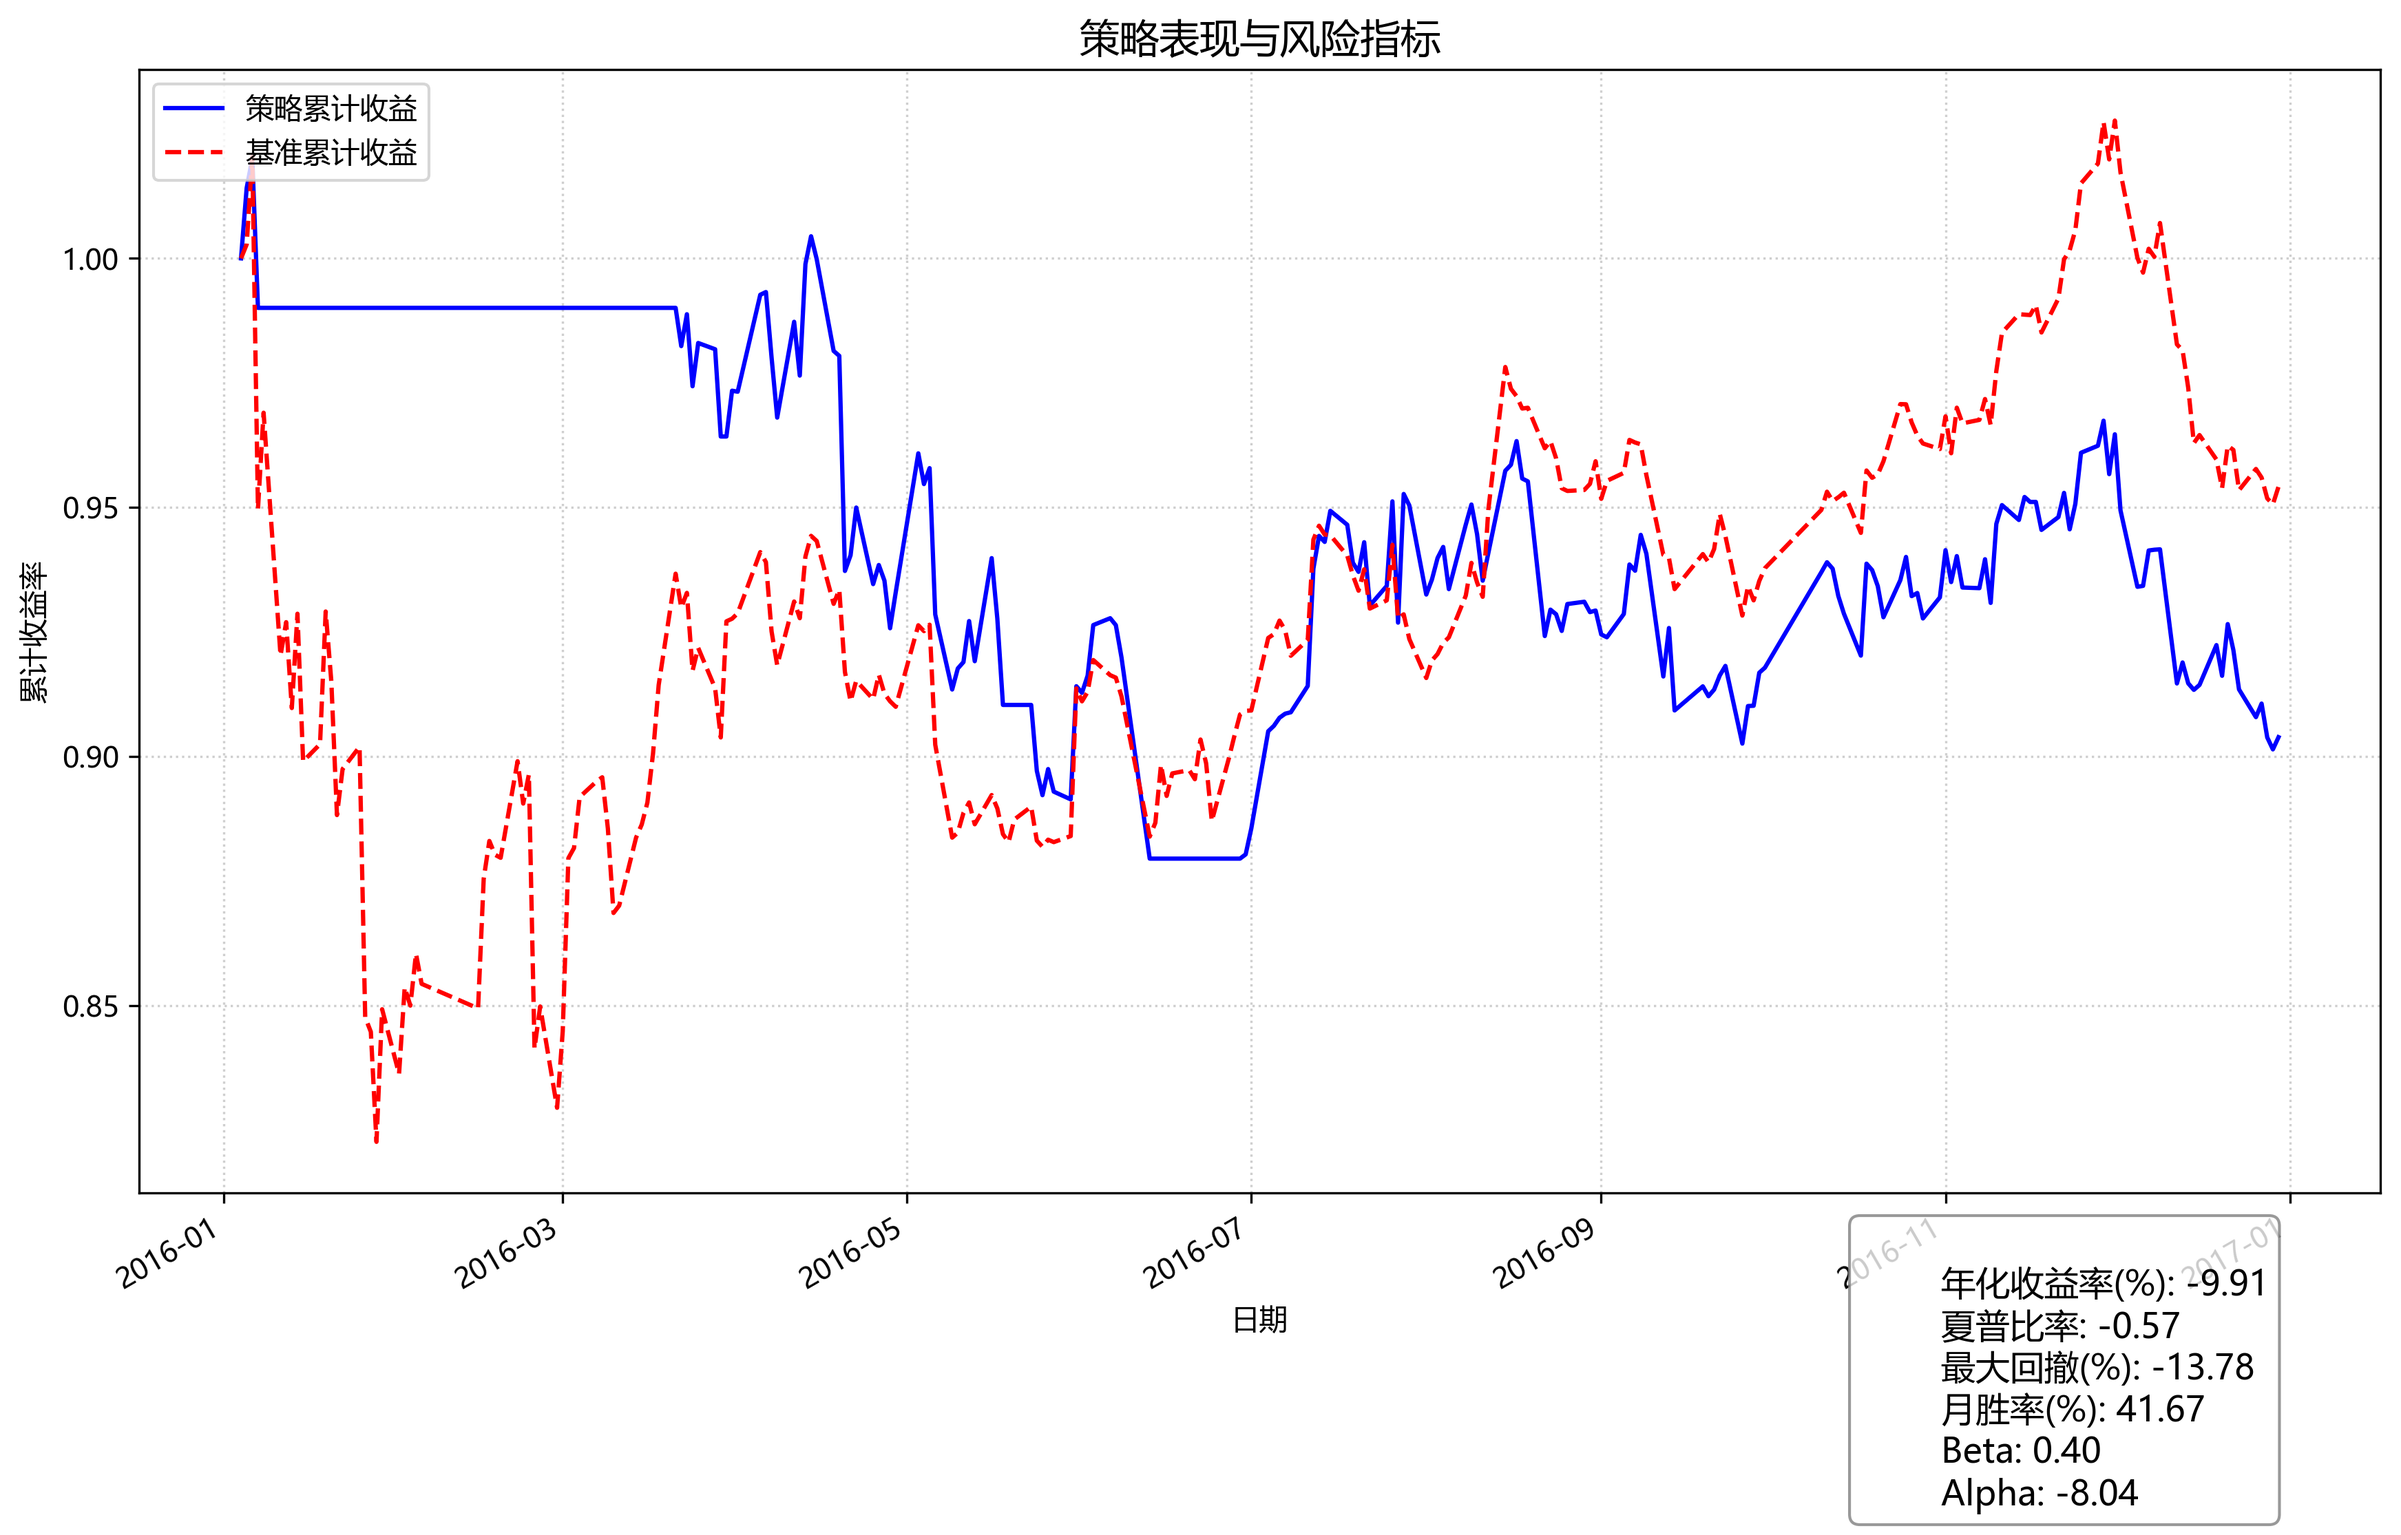
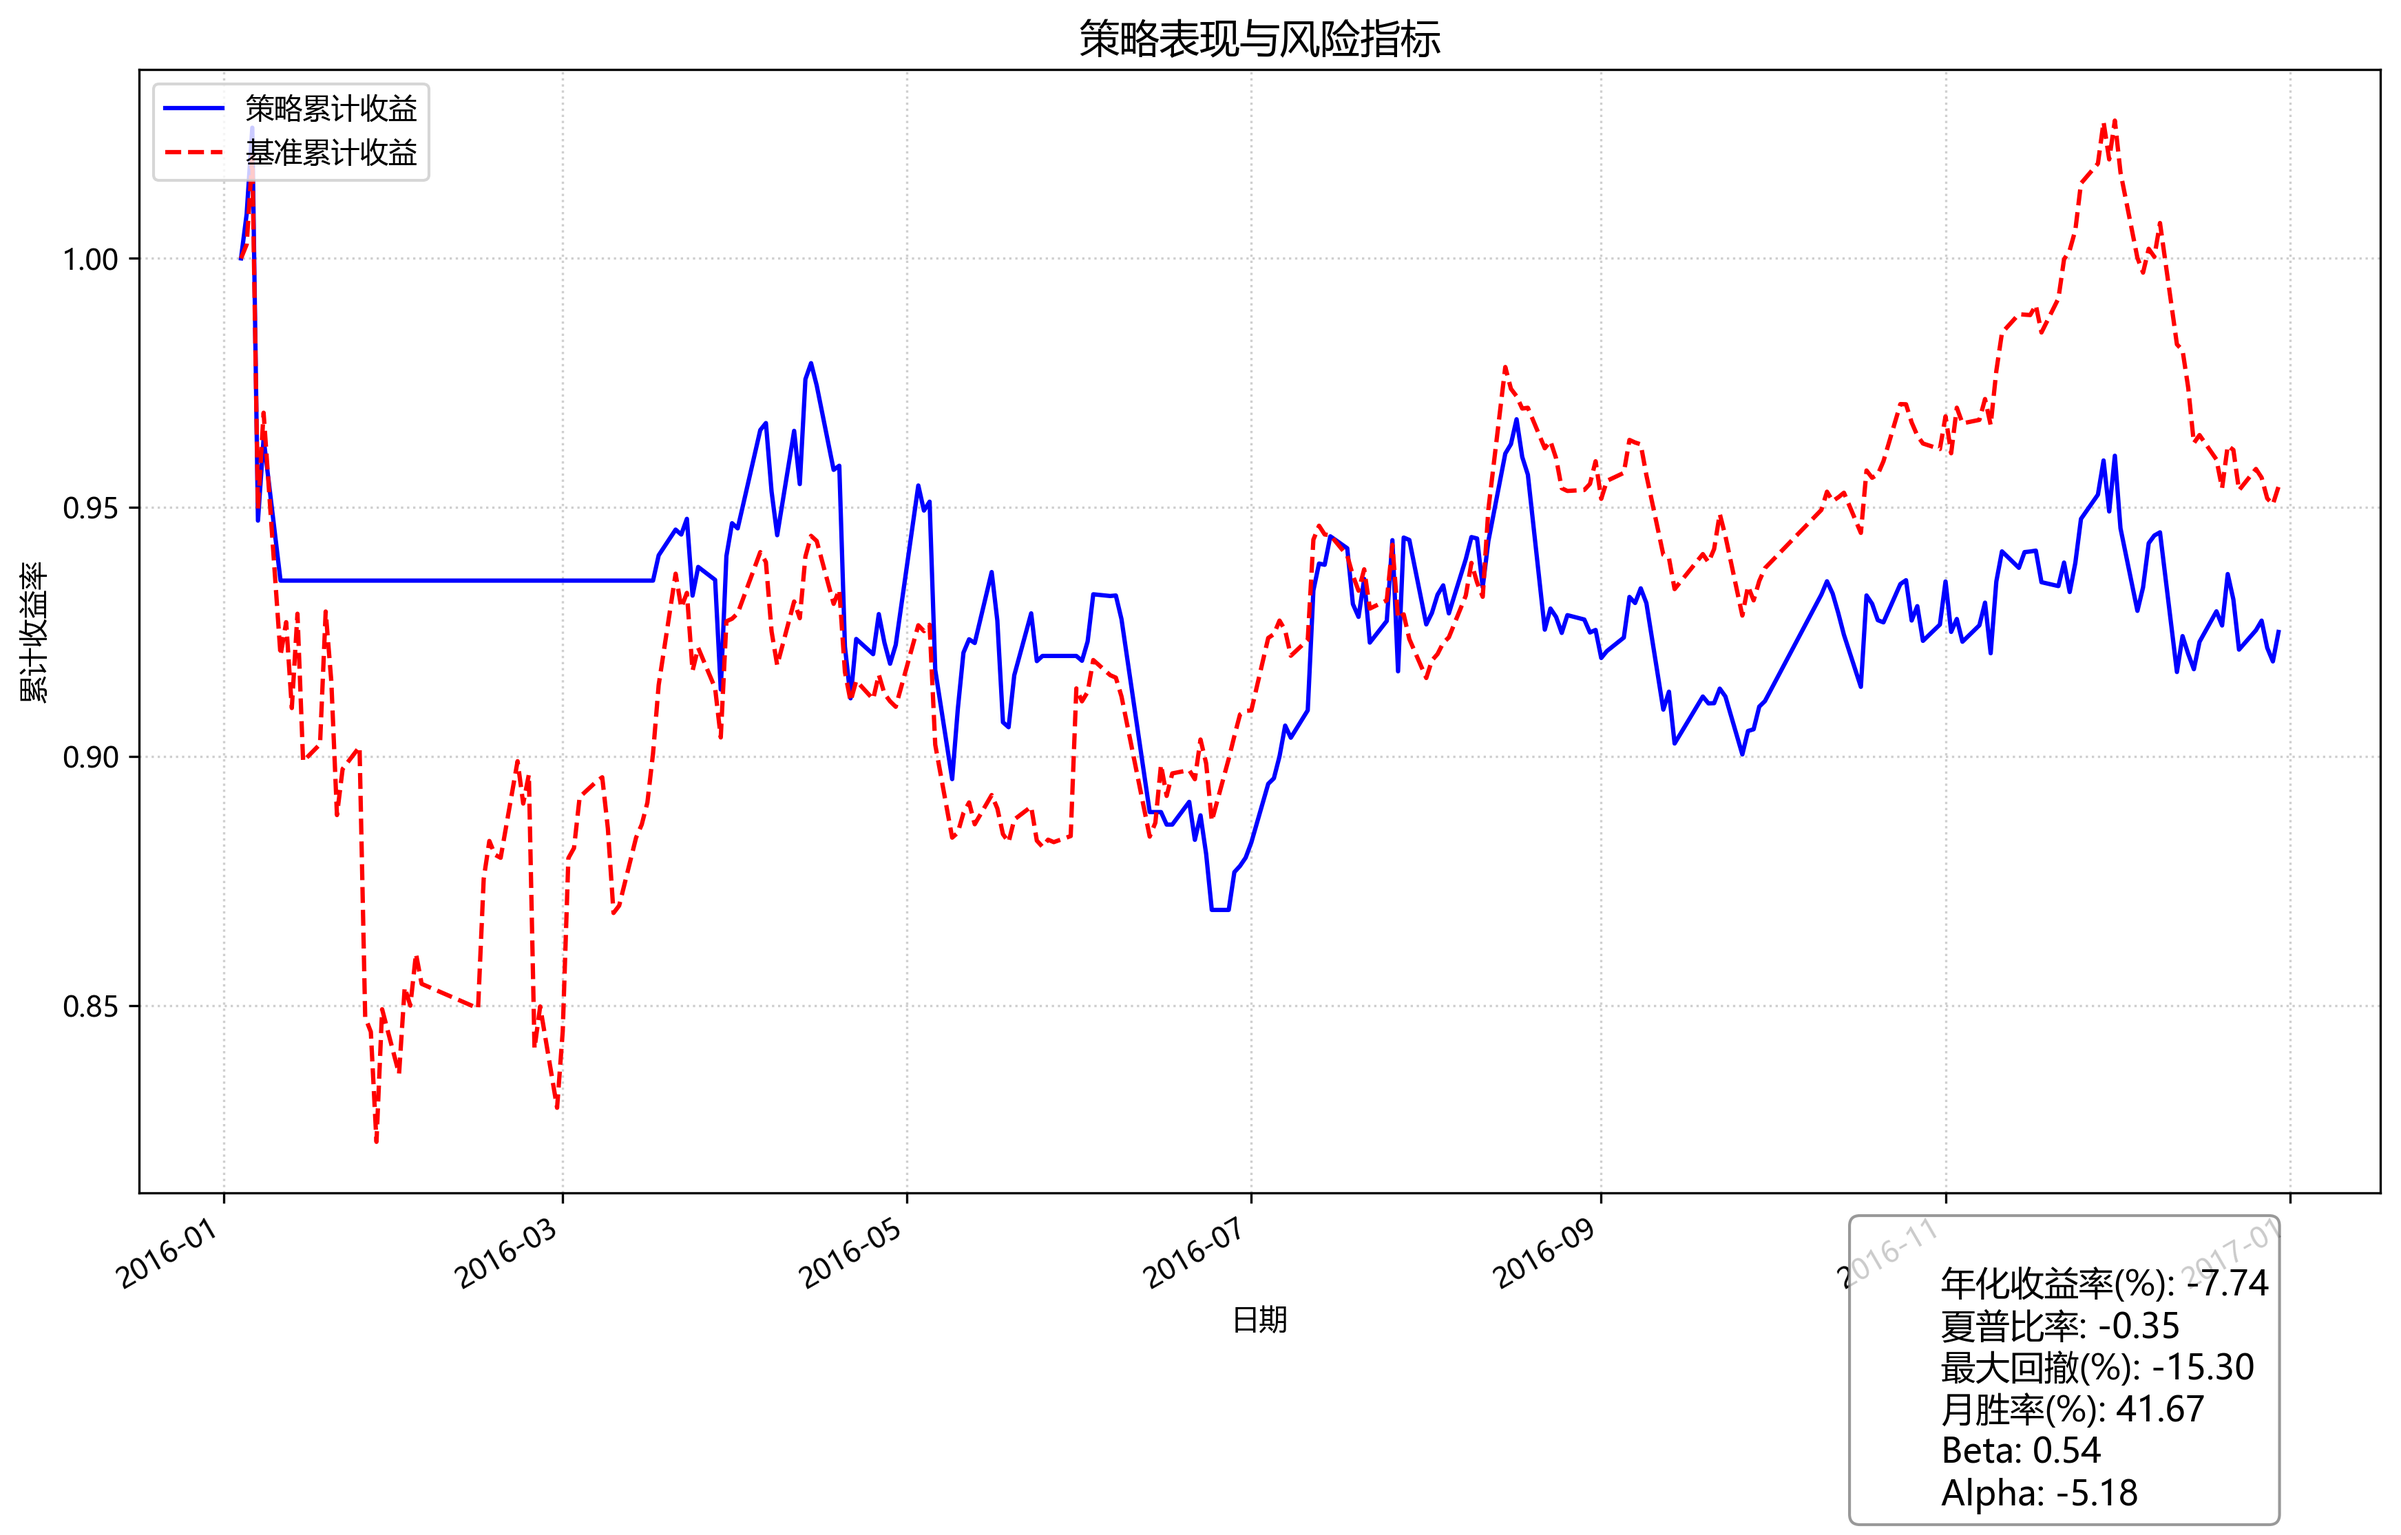
dev

diff --git a/simple_backtrade/strategy/kaimin.py b/simple_backtrade/strategy/kaimin.py
@@ -107,13 +107,12 @@ class BaseStrategy:
     def handle_bar(self,date:datetime)->pandas.DataFrame:
         keeps_num=20
 
-        baseline=self.data_manager.get_recent_baseline(date,1).close.mean()
-        m60_t1=self.data_manager.get_recent_baseline(date-timedelta(days=1),60).close.mean()
-        m60_t0=self.data_manager.get_recent_baseline(date-timedelta(days=0),60).close.mean()
-        # baseline_m40=self.data_manager.get_recent_baseline(date,40).close.mean()
-        baseline_negative=(m60_t1>m60_t0 and m60_t0>baseline)
-        if baseline_negative:
-             return pandas.DataFrame()
+        baseline_data=self.data_manager.get_recent_baseline(date,60).close
+        baseline=baseline_data.tail(1).iloc[0]
+        m30=baseline_data.tail(30).mean()
+        m60=baseline_data.tail(60).mean()
+
+        baseline_negative=(m60>m30 and m30>baseline)
 
 
         market_data=self.data_manager.get_daily_market_data(date,self.stock_factors.index)
@@ -123,12 +122,12 @@ class BaseStrategy:
         
         valid_stock=self.stock_factors.index.intersection(market_data.index)
         share_price=market_data.loc[valid_stock].close
-        history_price=self.data_manager.get_recent_stock_market_data(valid_stock,date,20)['close']
-        mean20=history_price.groupby(level='stock_code').mean()
-        mean10=history_price.groupby(level='stock_code').tail(10).groupby(level='stock_code').mean()
+        history_price=self.data_manager.get_recent_stock_market_data(valid_stock,date,60+1)['close']
+        m60_t0=history_price.groupby(level='stock_code').tail(60).groupby(level='stock_code').mean()
+        m60_t1=history_price.groupby(level='stock_code').head(60).groupby(level='stock_code').mean()
         share_price=share_price.reindex(self.stock_factors.index,fill_value=1e3)
-        mean20=mean20.reindex(self.stock_factors.index,fill_value=1e9)
-        mean10=mean10.reindex(self.stock_factors.index,fill_value=1e9)
+        m60_t1=m60_t1.reindex(self.stock_factors.index,fill_value=1e9)
+        m60_t0=m60_t0.reindex(self.stock_factors.index,fill_value=1e9)
         pe=share_price/self.stock_factors['profit_per_share']
 
         predict_pe=pe/(1.0+self.stock_factors.history_score/100)
@@ -146,8 +145,17 @@ class BaseStrategy:
 
         # else:
         low_estimat_pe=predict_pe[predict_pe<25]
-        recovering_pe=predict_pe[(predict_pe<25)&(share_price>=mean20)].sort_values()
-        strategy_negative=(len(recovering_pe)/len(low_estimat_pe)<0.3)
+        recovering_pe=predict_pe[(predict_pe<25)&(~((share_price<=m60_t0)&(m60_t1>=m60_t0)))].sort_values()
+        strategy_negative=(len(recovering_pe)/len(low_estimat_pe)<0.2)
+        strategy_positive=(len(recovering_pe)/len(low_estimat_pe)>0.7)
+
+        if baseline_negative:
+            if strategy_positive:
+                pass
+            else:
+                return pandas.DataFrame()
+        if strategy_negative:
+            return pandas.DataFrame()
 
         return recovering_pe.head(keeps_num)
     

diff --git a/simple_backtrade/backtrade/simulator.py b/simple_backtrade/backtrade/simulator.py
@@ -12,7 +12,7 @@ class LocalSimulator:
         self.data_manager=LocalDataManager()
         self.start_time=datetime.strptime(_start_time, "%Y-%m-%d")
         self.end_time=datetime.strptime(_end_time, "%Y-%m-%d")
-        self.data_manager.init_range(self.start_time-timedelta(days=30),self.end_time)
+        self.data_manager.init_range(self.start_time-timedelta(days=100),self.end_time)
         if account is not None:
             self.account=account
         else:

diff --git a/run.py b/run.py
@@ -18,7 +18,7 @@ if __name__=='__main__':
     param_list=list(np.arange(2008,2026))
     with Pool(len(param_list)) as p:
         analyze_results=p.map(task,param_list)
-    # task(2008)
+    #task(2008)
     
     daily_returns=pandas.concat([analyze_result['daily_returns'] for analyze_result in analyze_results])
     benchmark=pandas.concat([analyze_result['benchmark'] for analyze_result in analyze_results])

diff --git a/simple_backtrade/account.py b/simple_backtrade/account.py
@@ -48,7 +48,7 @@ class SimpleAccount:
         if len(stock_list)==0:
             return
         
-        avg_money=self.money*min(1/len(stock_list),0.1)
+        avg_money=self.money*min(1/len(stock_list),0.05)
         market_data=data_manager.get_daily_market_data(date,stock_list)
 
         price=market_data.loc[stock_list].close
